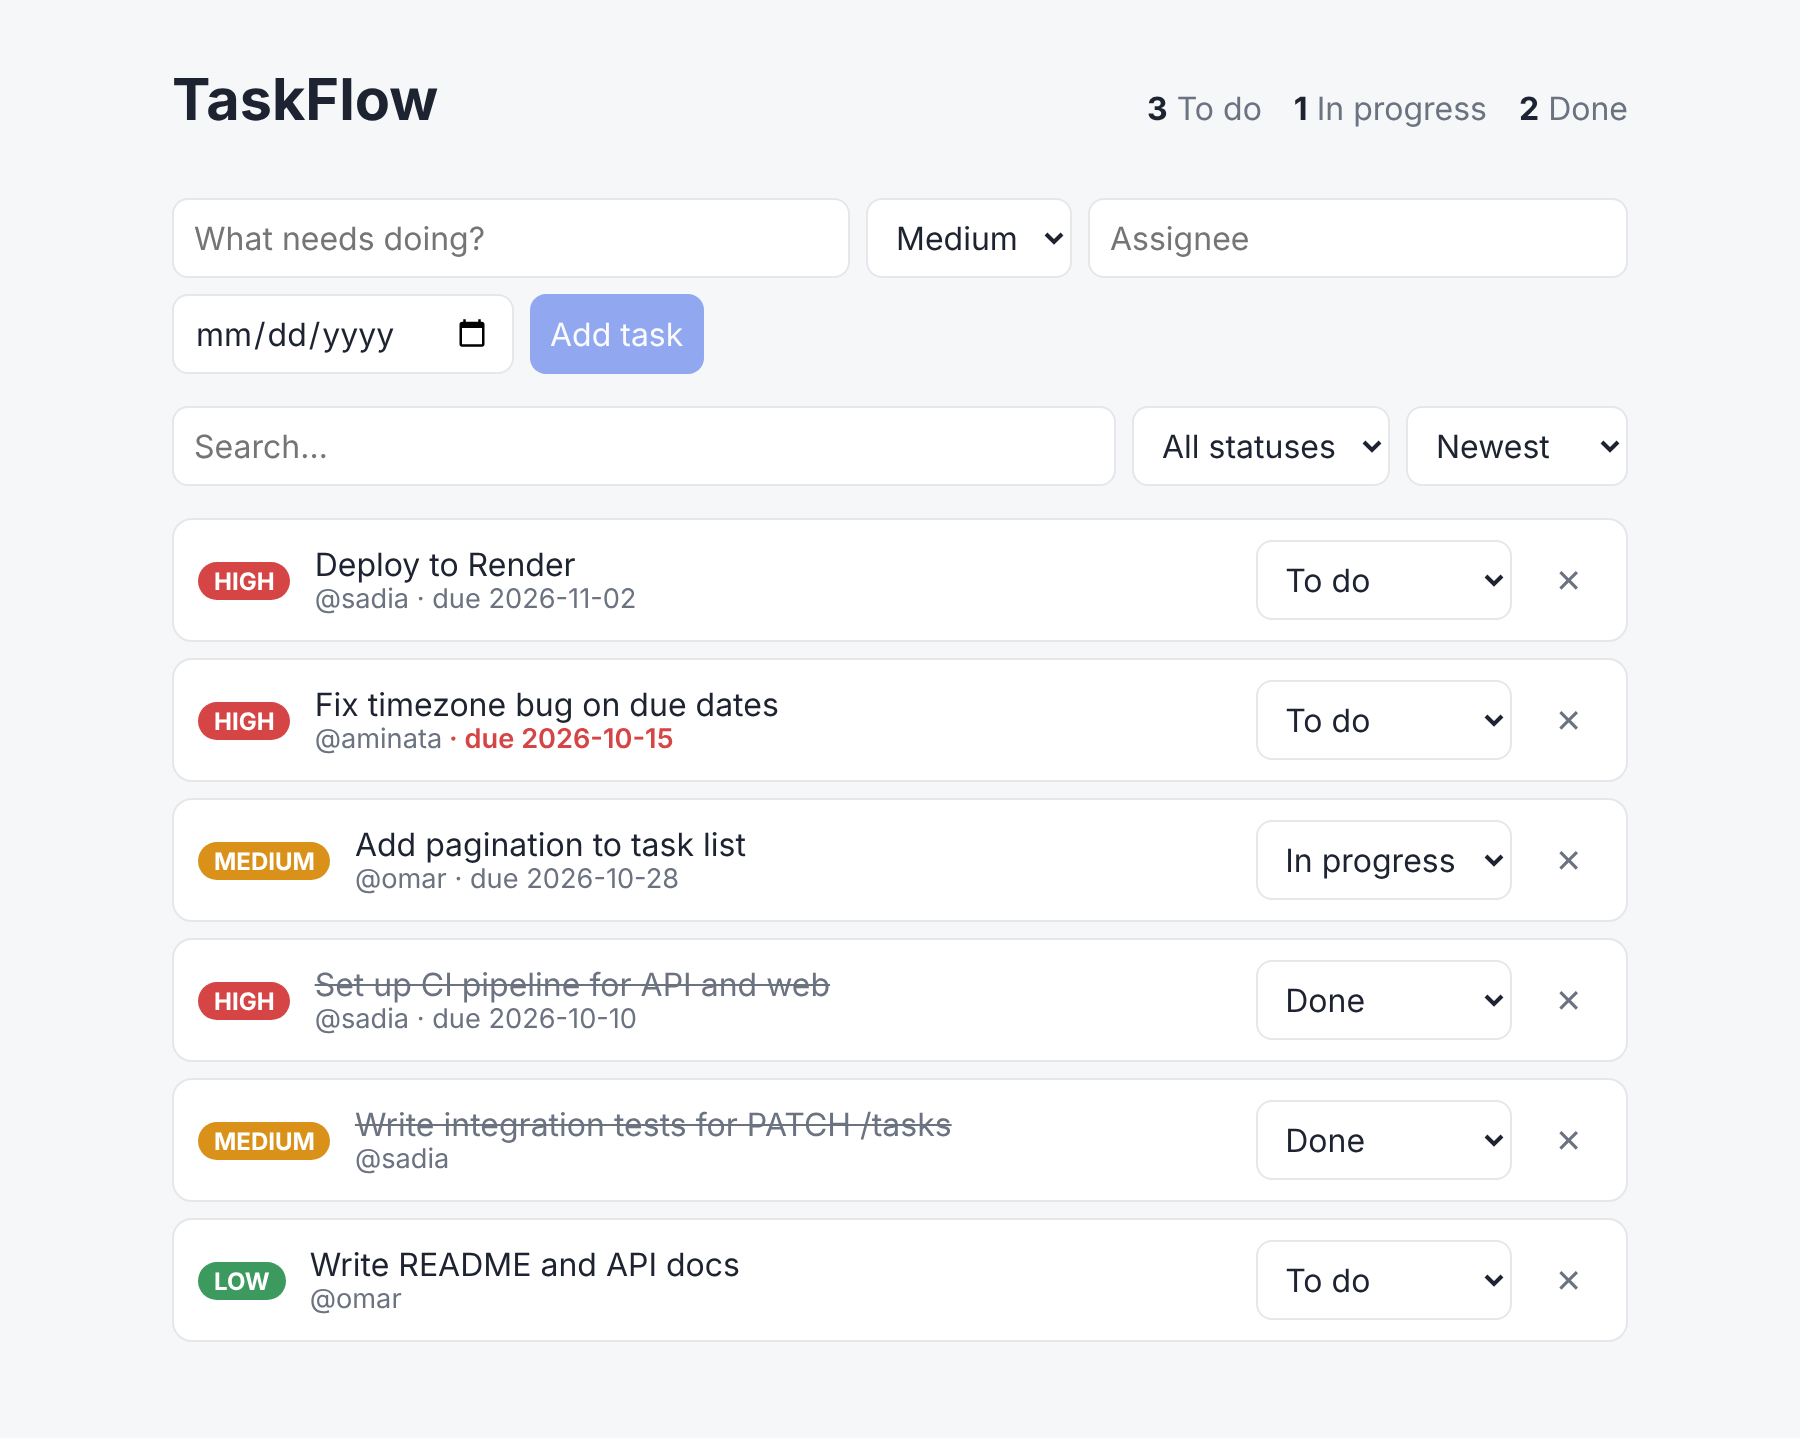
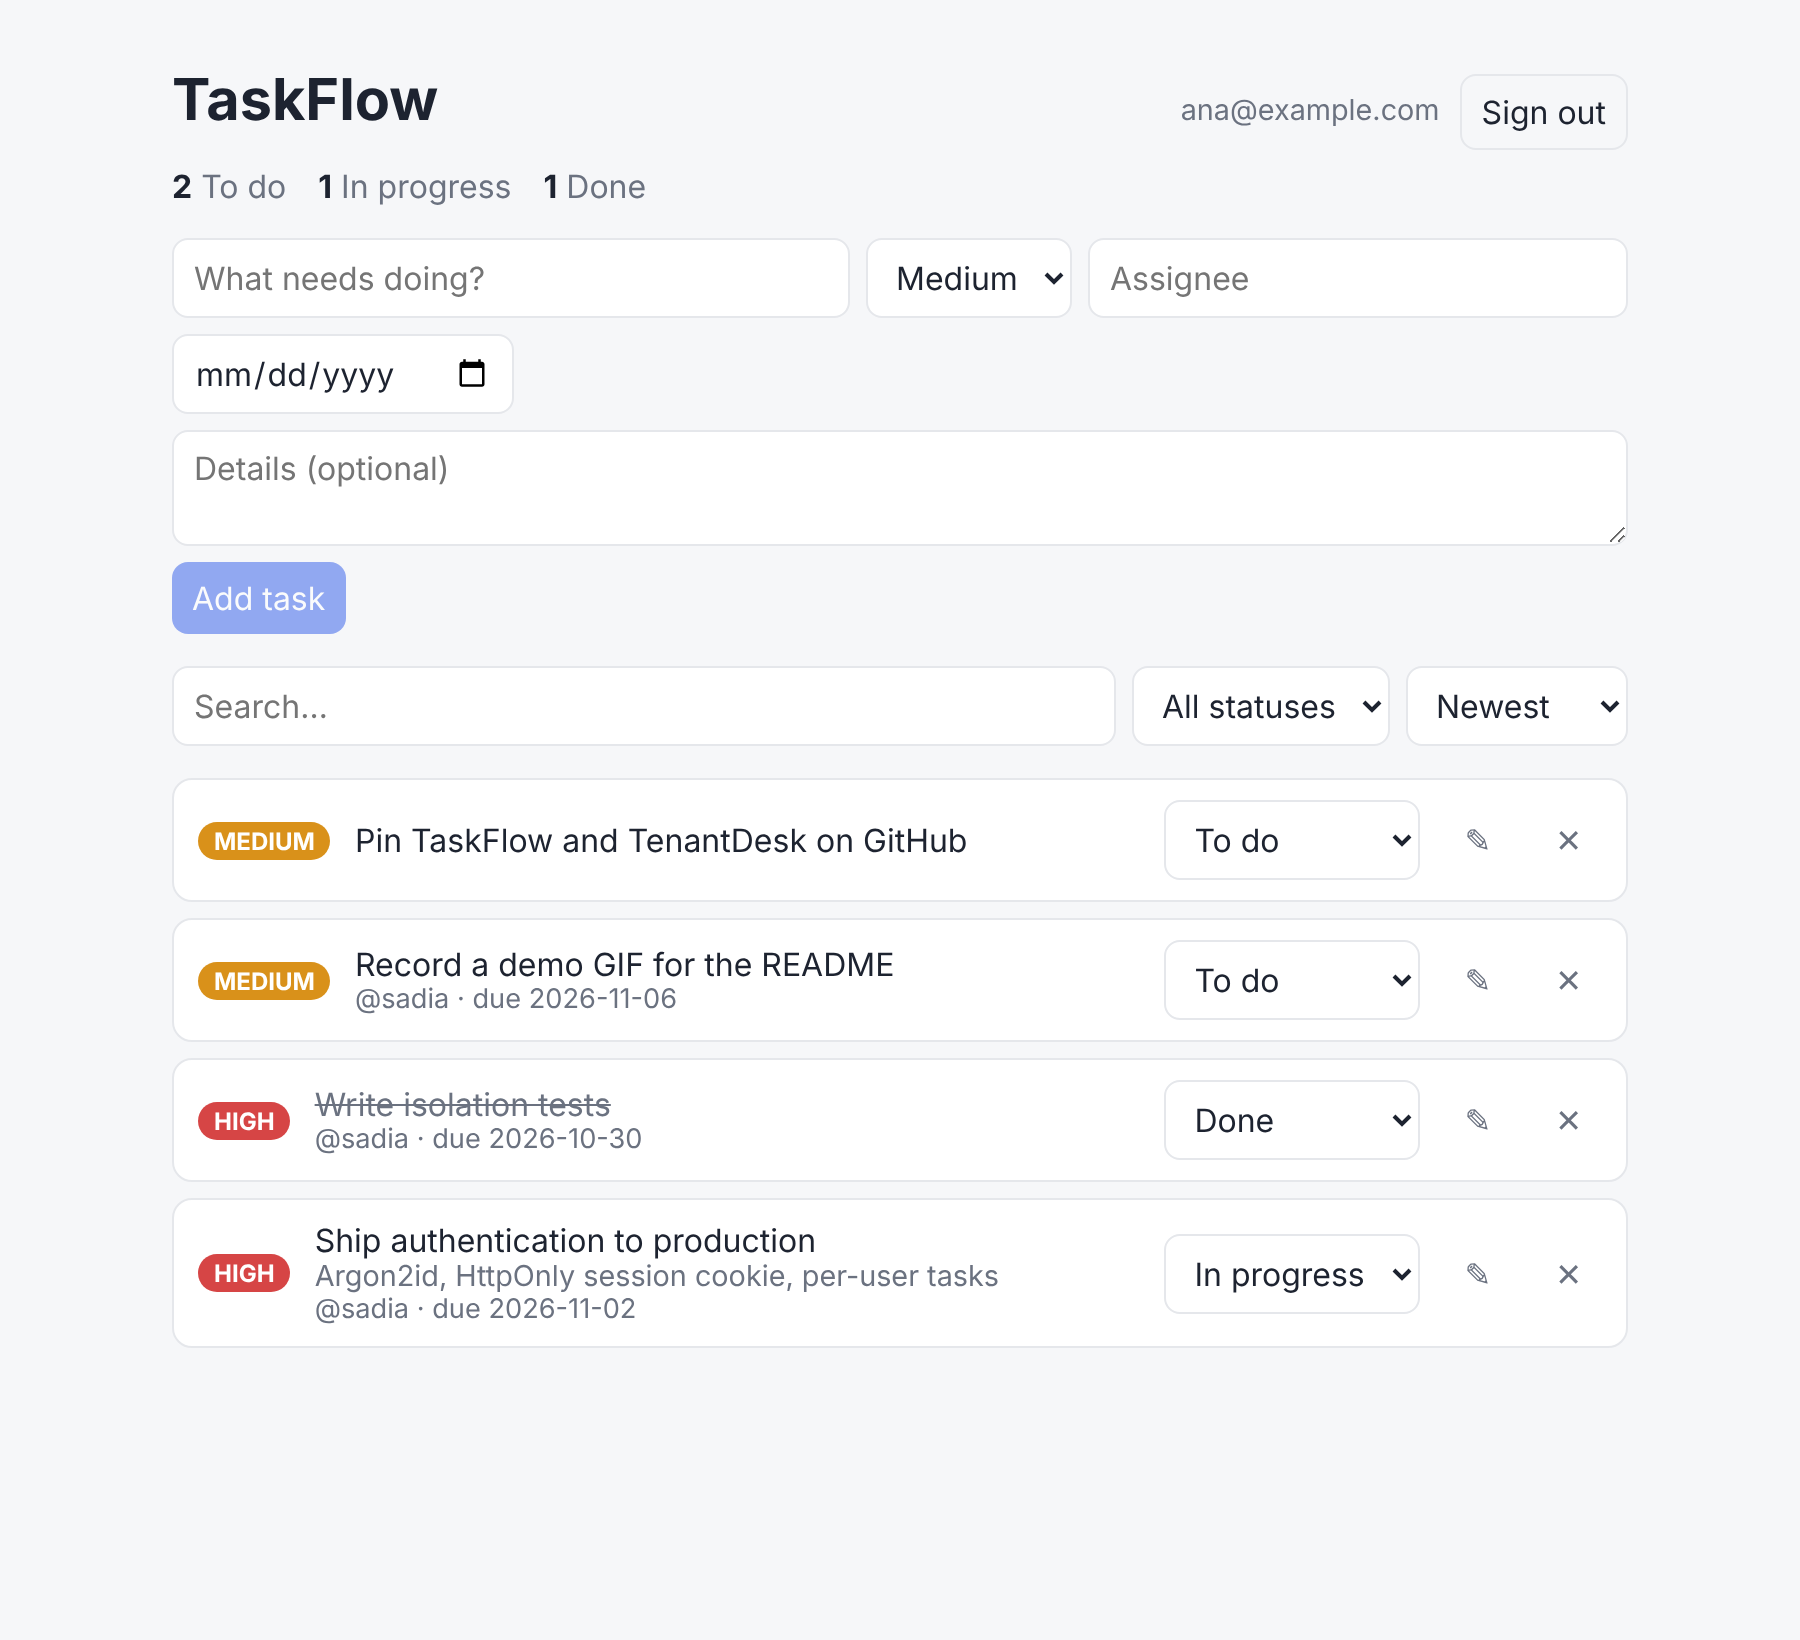
docs: document auth, isolation and the live demo
README gains a demo GIF, sign-in and board screenshots, a Mermaid architecture
diagram, the auth API, a test coverage table, and honest notes on limits.

diff --git a/README.md b/README.md
@@ -1,54 +1,98 @@
 # TaskFlow
 
 [![CI](https://github.com/aliou21toure-jpg/taskflow/actions/workflows/ci.yml/badge.svg)](https://github.com/aliou21toure-jpg/taskflow/actions/workflows/ci.yml)
+[![Live demo](https://img.shields.io/badge/live%20demo-taskflow--demo--tau.vercel.app-2f5bea)](https://taskflow-demo-tau.vercel.app)
 
-A full-stack task manager: a **TypeScript + Express REST API** backed by **PostgreSQL**, and a **React** frontend.
+A full-stack task manager with user accounts: a **TypeScript + Express REST API** on
+**PostgreSQL** and a **React** frontend. Every user signs in and sees only their own tasks.
+The API enforces this in every SQL query, and 86 automated tests check it.
 
-![TaskFlow running locally: tasks with priorities, assignees, due dates and status counts](docs/screenshot.png)
+**[Try the live demo →](https://taskflow-demo-tau.vercel.app)** Create your own account, or
+click *Try the demo account* on the sign-in screen.
+
+![Signing up, adding and editing tasks, and signing out](docs/demo.gif)
 
 ## Features
 
-- CRUD REST API for tasks: status, priority, assignee, due date
-- Filtering (`status`, `priority`, `assignee`), full-text-style search (`q`), sorting and pagination
-- Input validation with Zod — strict schemas reject unknown fields (mass-assignment protection)
-- Parameterized SQL everywhere (SQL-injection safe), including escaped `LIKE` wildcards
-- Consistent JSON error format, structured request logging (pino), security headers (helmet)
-- Graceful shutdown, health check that verifies the database
-- React UI: create, filter, search, sort, change status, delete, live status counts
-- **34 automated tests**: 30 API integration tests against a real PostgreSQL test database + 4 UI tests
-- Docker images, Docker Compose for the full stack, GitHub Actions CI
+**Accounts and security**
+- Registration, sign-in and sign-out. Passwords are hashed with **Argon2id** using OWASP's
+  recommended parameters.
+- Sessions use a random 256-bit token in an `HttpOnly`, `Secure`, `SameSite=Lax` cookie.
+  Page scripts can't read it, and the database stores only its SHA-256 hash.
+- Every login issues a new token, so a pre-set token can't be reused (no session fixation).
+  Signing out deletes the session on the server, so a copied cookie stops working.
+- A wrong password and an unknown email get the same response in the same time. Attackers
+  can't use sign-in to find out which emails have accounts.
+- Sign-in and registration are rate-limited. Writes coming from another website are refused
+  (an `Origin` check on top of SameSite).
+- **Per-user isolation.** Every query filters on `user_id`. Another user's task returns 404,
+  exactly like a task that doesn't exist. The database refuses a task with no owner.
+
+**Tasks**
+- Create, edit (title, description, priority, assignee, due date), change status and delete
+- Filter, search, sort and paginate. All SQL is parameterized, and `LIKE` wildcards are escaped.
+- Strict Zod schemas reject unknown fields, so you can't set `user_id` or `id` in a request body.
+
+**Frontend**
+- Sign-in and sign-up screens. When the session ends, the app returns to sign-in and says why.
+- Loading indicators, per-task busy states, and error messages you can retry
+- A failed save keeps what you typed in the form, and search waits until you stop typing
+
+| Sign in | Your tasks |
+|---|---|
+| ![Sign-in screen](docs/sign-in.png) | ![Task board with priorities, assignees, due dates and status counts](docs/screenshot.png) |
 
 ## Architecture
 
+```mermaid
+flowchart LR
+    B["Browser<br/>React + Vite"] -- "HTTPS · same origin<br/>cookie: tf_session (HttpOnly)" --> P["/api<br/>Vite proxy · nginx · Vercel rewrite"]
+    P --> A
+
+    subgraph A["Express API"]
+        direction TB
+        M["helmet · JSON body limit · Origin check · no-store"]
+        AU["routes/auth.ts<br/>register · login · logout · me<br/>rate limited"]
+        RA["requireAuth<br/>cookie → SHA-256 → sessions"]
+        T["routes/tasks.ts<br/>Zod validation"]
+        R["taskRepository.ts<br/>WHERE user_id = $n on every query"]
+        M --> AU
+        M --> RA --> T --> R
+    end
+
+    R --> DB[("PostgreSQL 16<br/>users · sessions · tasks<br/>tasks.user_id NOT NULL FK")]
+    AU --> DB
 ```
-React (Vite)  ──HTTP/JSON──▶  Express app  ──▶  routes/tasks.ts  (validate with Zod)
-                                                     │
-                                                     ▼
-                                           lib/taskRepository.ts (parameterized SQL)
-                                                     │
-                                                     ▼
-                                               PostgreSQL 16
-```
+
+The React app and the API always share one origin: a Vite proxy in development, nginx in
+Docker, and a rewrite on Vercel. The session cookie is therefore first-party, and no CORS
+setup is needed.
 
 | Layer | File | Responsibility |
 |---|---|---|
 | Config | `api/src/config.ts` | Validate environment variables, fail fast |
-| HTTP | `api/src/app.ts` | Middleware, CORS, health check, error handling |
+| HTTP | `api/src/app.ts` | Middleware, health check, wiring, error handling |
+| Auth | `api/src/routes/auth.ts`, `middleware/auth.ts` | Accounts, sessions, `requireAuth` |
+| CSRF | `api/src/middleware/sameOrigin.ts` | Refuse cross-site writes |
 | Routes | `api/src/routes/tasks.ts` | Parse input → call repository → shape response |
-| Data | `api/src/lib/taskRepository.ts` | All SQL for tasks |
-| Schema | `api/sql/001_create_tasks.sql` | Table, constraints, indexes, `updated_at` trigger |
+| Data | `api/src/lib/*Repository.ts` | All SQL, always scoped to the signed-in user |
+| Schema | `api/sql/*.sql` | Tables, constraints, indexes, `updated_at` trigger |
 
 ## API
 
-| Method | Endpoint | Description |
-|---|---|---|
-| `GET` | `/health` | Database connectivity check |
-| `POST` | `/tasks` | Create a task |
-| `GET` | `/tasks` | List tasks — `?status=&priority=&assignee=&q=&sort=&order=&limit=&offset=` |
-| `GET` | `/tasks/stats` | Count of tasks per status |
-| `GET` | `/tasks/:id` | Get one task |
-| `PATCH` | `/tasks/:id` | Update some fields |
-| `DELETE` | `/tasks/:id` | Delete a task |
+| Method | Endpoint | Auth | Description |
+|---|---|---|---|
+| `GET` | `/health` | – | Database connectivity check |
+| `POST` | `/auth/register` | – | Create an account and sign in (`201`, `409` if the email is taken) |
+| `POST` | `/auth/login` | – | Sign in (`401` with a generic message on failure) |
+| `POST` | `/auth/logout` | – | End the session on the server |
+| `GET` | `/auth/me` | ✓ | The signed-in user |
+| `POST` | `/tasks` | ✓ | Create a task |
+| `GET` | `/tasks` | ✓ | List your tasks: `?status=&priority=&assignee=&q=&sort=&order=&limit=&offset=` |
+| `GET` | `/tasks/stats` | ✓ | Count of your tasks per status |
+| `GET` | `/tasks/:id` | ✓ | Get one of your tasks |
+| `PATCH` | `/tasks/:id` | ✓ | Update some fields |
+| `DELETE` | `/tasks/:id` | ✓ | Delete a task |
 
 Errors always look like `{ "error": { "message": "...", "details": [...] } }`.
 
@@ -57,8 +101,7 @@ Errors always look like `{ "error": { "message": "...", "details": [...] } }`.
 **With Docker (everything):**
 ```bash
 docker compose up --build
-# UI  → http://localhost:5173
-# API → http://localhost:3000/health
+# open http://localhost:5173  (nginx serves the UI and proxies /api to the API)
 ```
 
 **Locally (for development):**
@@ -71,20 +114,44 @@ npm run db:migrate && npm run db:migrate:test
 npm run dev                      # API on :3000
 
 cd ../web
-cp .env.example .env
 npm install
-npm run dev                      # UI on :5173
+npm run dev                      # UI on :5173, proxies /api to :3000
 ```
+
+**Deploy:** see [`deploy/vercel/README.md`](deploy/vercel/README.md). The live demo runs the
+API as a serverless function and the UI as static files on one HTTPS origin, with PostgreSQL
+on Supabase.
 
 ## Tests
 
 ```bash
-cd api && npm test        # integration tests (needs the taskflow_test database)
-cd web && npm test        # React component tests (no backend needed)
+cd api && npm test        # 68 integration tests against a real PostgreSQL test database
+cd web && npm test        # 18 React tests against an in-memory fake API
 ```
 
-The API tests refuse to run unless `DATABASE_URL` points at a database whose name ends in `_test`, because they truncate tables.
+| Area | What is checked |
+|---|---|
+| Authentication | Register, login, logout, duplicate email, weak or invalid input, Argon2id hash format, hashed session tokens, cookie flags, new token per login, expired and forged sessions, rate limiting |
+| Authorization | `401` on every task endpoint without a session. Another user can't read, list, search, update or delete your tasks, or create one in your name. Database-level owner constraint and cascade |
+| CSRF | A write from another origin is refused; one from the app's own origin is allowed |
+| Tasks | CRUD, validation, unknown-field rejection, filters, search with literal wildcards, sorting, pagination |
+| Frontend | Sign-in and sign-up flows and errors, sign-out, session expiry, unreachable server, failed create, edit and delete (the form keeps your input), editing every field, debounced search |
+
+The API tests refuse to run unless `DATABASE_URL` points at a database whose name ends in
+`_test`, because they truncate tables. CI runs both suites, the type checks, the builds and
+the Docker builds on every push and pull request.
+
+## Security notes and limits
+
+- The rate limiter keeps its counts in memory, so each server instance counts separately. A
+  multi-instance deployment would use a shared store such as Redis.
+- Registration returns `409` for an email that is already taken, so it does reveal that the
+  account exists. This is a deliberate usability trade-off (sign-in does not reveal it); a
+  stricter design would confirm by email instead.
+- The public demo account is shared by every visitor, so anyone can change its tasks. Create
+  your own account to see the isolation for yourself.
 
 ## Tech stack
 
-TypeScript · Node.js 24 · Express 5 · PostgreSQL 16 · node-postgres · Zod · Vitest · Supertest · React 19 · Vite · Testing Library · Docker · GitHub Actions
+TypeScript · Node.js · Express 5 · PostgreSQL 16 · node-postgres · Zod · Argon2 · Vitest ·
+Supertest · React 19 · Vite · Testing Library · Docker · nginx · GitHub Actions · Vercel
